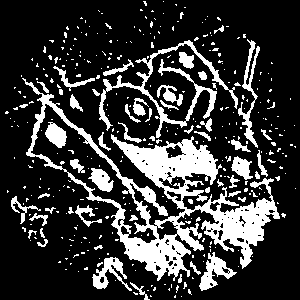
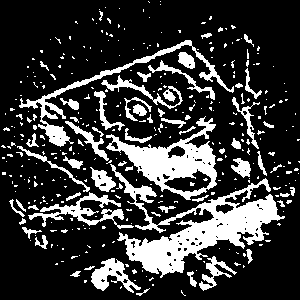
Still need to fix

diff --git a/implementation.py b/implementation.py
@@ -175,10 +175,10 @@ def noisiness_based_reconstruction(image):
 #     save_image("./reconstructed/recon_image_noisy_reference.png", reconstructed_img)
 
 def test_optimized_reconstruction(image):
-    start_projection_count = 40  # number of projections
-    number_of_random_projections = 200  # Number of generated random projections
-    max_error_limit = 0.5  # Error limit, which needs to be achieved
-    optimization_step_size = 1.74532925e-5  # 0.001 degree in radians
+    start_projection_count = 60  # number of projections
+    number_of_random_projections = 300  # Number of generated random projections
+    max_error_limit = 0.35  # Error limit, which needs to be achieved
+    optimization_step_size = 1.74532925e-10  # 0.001 degree in radians
 
     continue_optimization = True
     number_of_projections = start_projection_count
@@ -218,14 +218,14 @@ def test_optimized_reconstruction(image):
             continue
 
         error_improvement = 1
-        best_projection_iter = best_projection
+        best_projection_iter = best_projection[:]
         index_of_optimized_angle = 0
         improved_overall_error = best_projection_error
         tried_angles = 0
 
         # Greedy algorithm to improve the projection
         print("Greedy optimization in progress...")
-        while error_improvement > 0 and tried_angles != len(best_projection_iter):
+        while tried_angles != len(best_projection_iter):
             print(".", end = " ")
             best_projection_iter[index_of_optimized_angle] += optimization_step_size
             error = get_mse_from_images(image, make_reconstructed_image(image, best_projection_iter))
@@ -236,7 +236,6 @@ def test_optimized_reconstruction(image):
 
             # Optimization is successful
             if error < improved_overall_error:
-                error_improvement = improved_overall_error - error
                 improved_overall_error = error
                 tried_angles = 0
                 continue
@@ -247,11 +246,11 @@ def test_optimized_reconstruction(image):
 
             # Optimization is successful
             if error < improved_overall_error:
-                error_improvement = improved_overall_error - error
                 improved_overall_error = error
                 tried_angles = 0
                 continue
 
+            best_projection_iter[index_of_optimized_angle] += optimization_step_size
             tried_angles += 1
             # If we tried to improve all the angles, start again
             if index_of_optimized_angle == len(best_projection_iter) - 1 :
